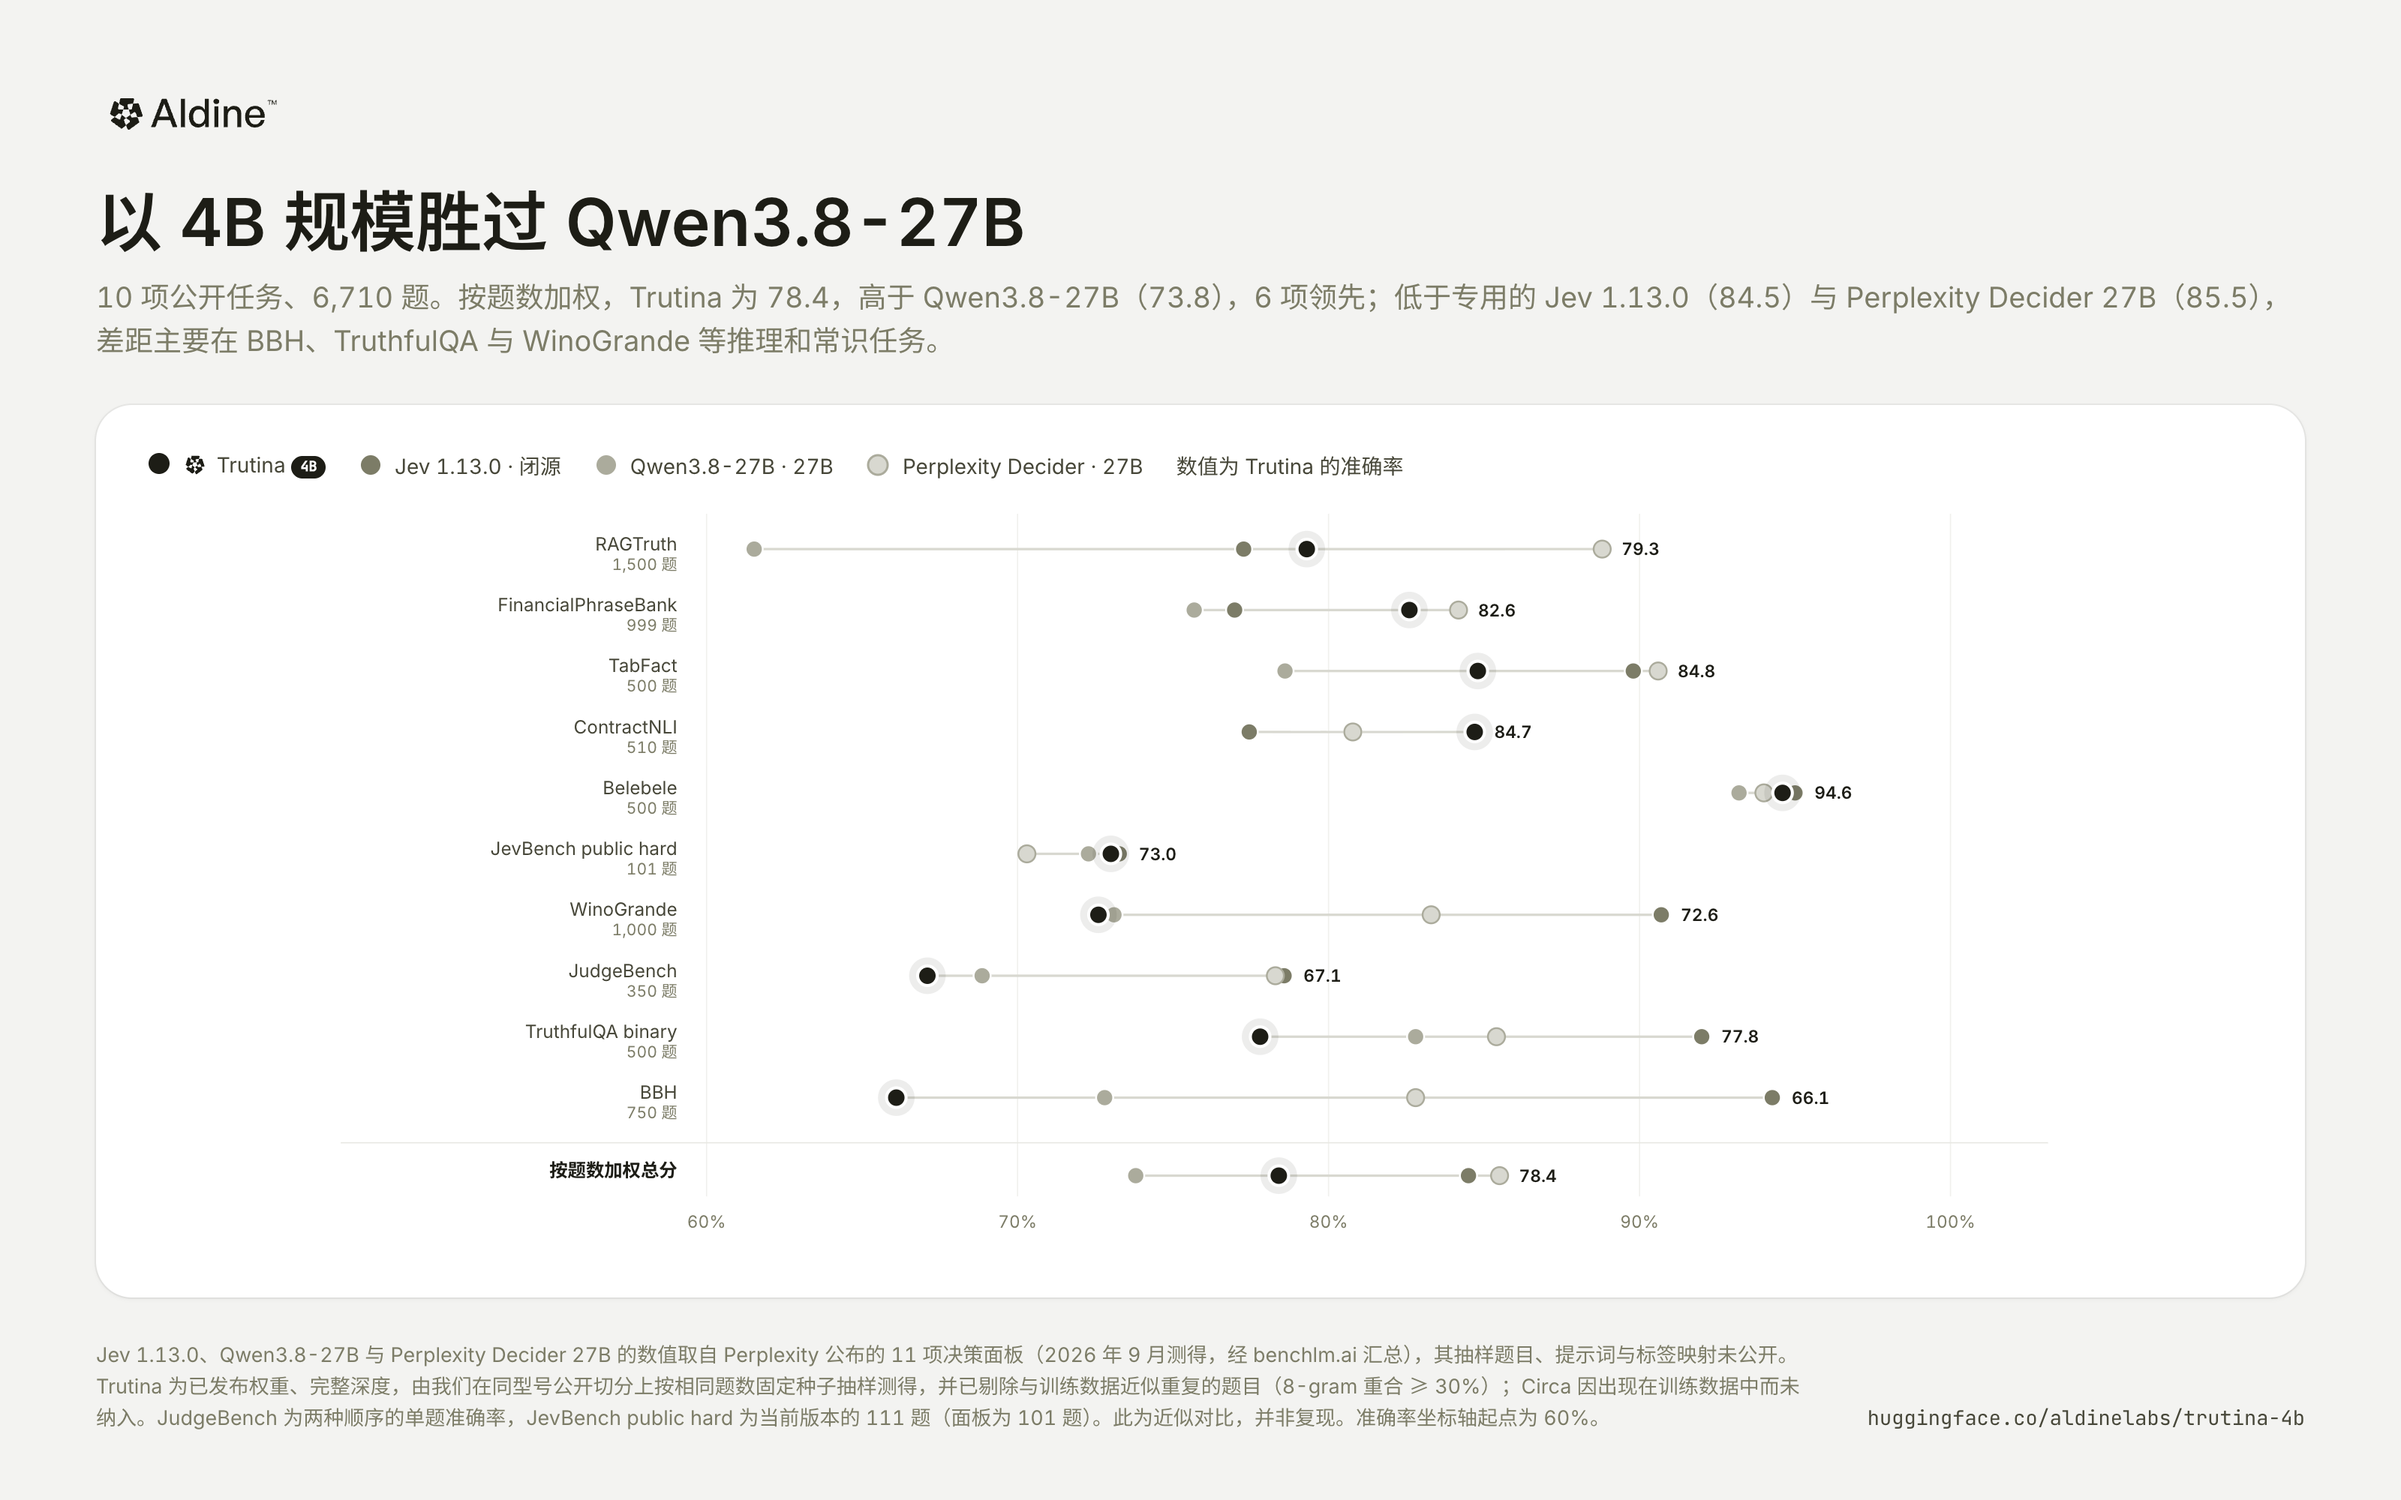
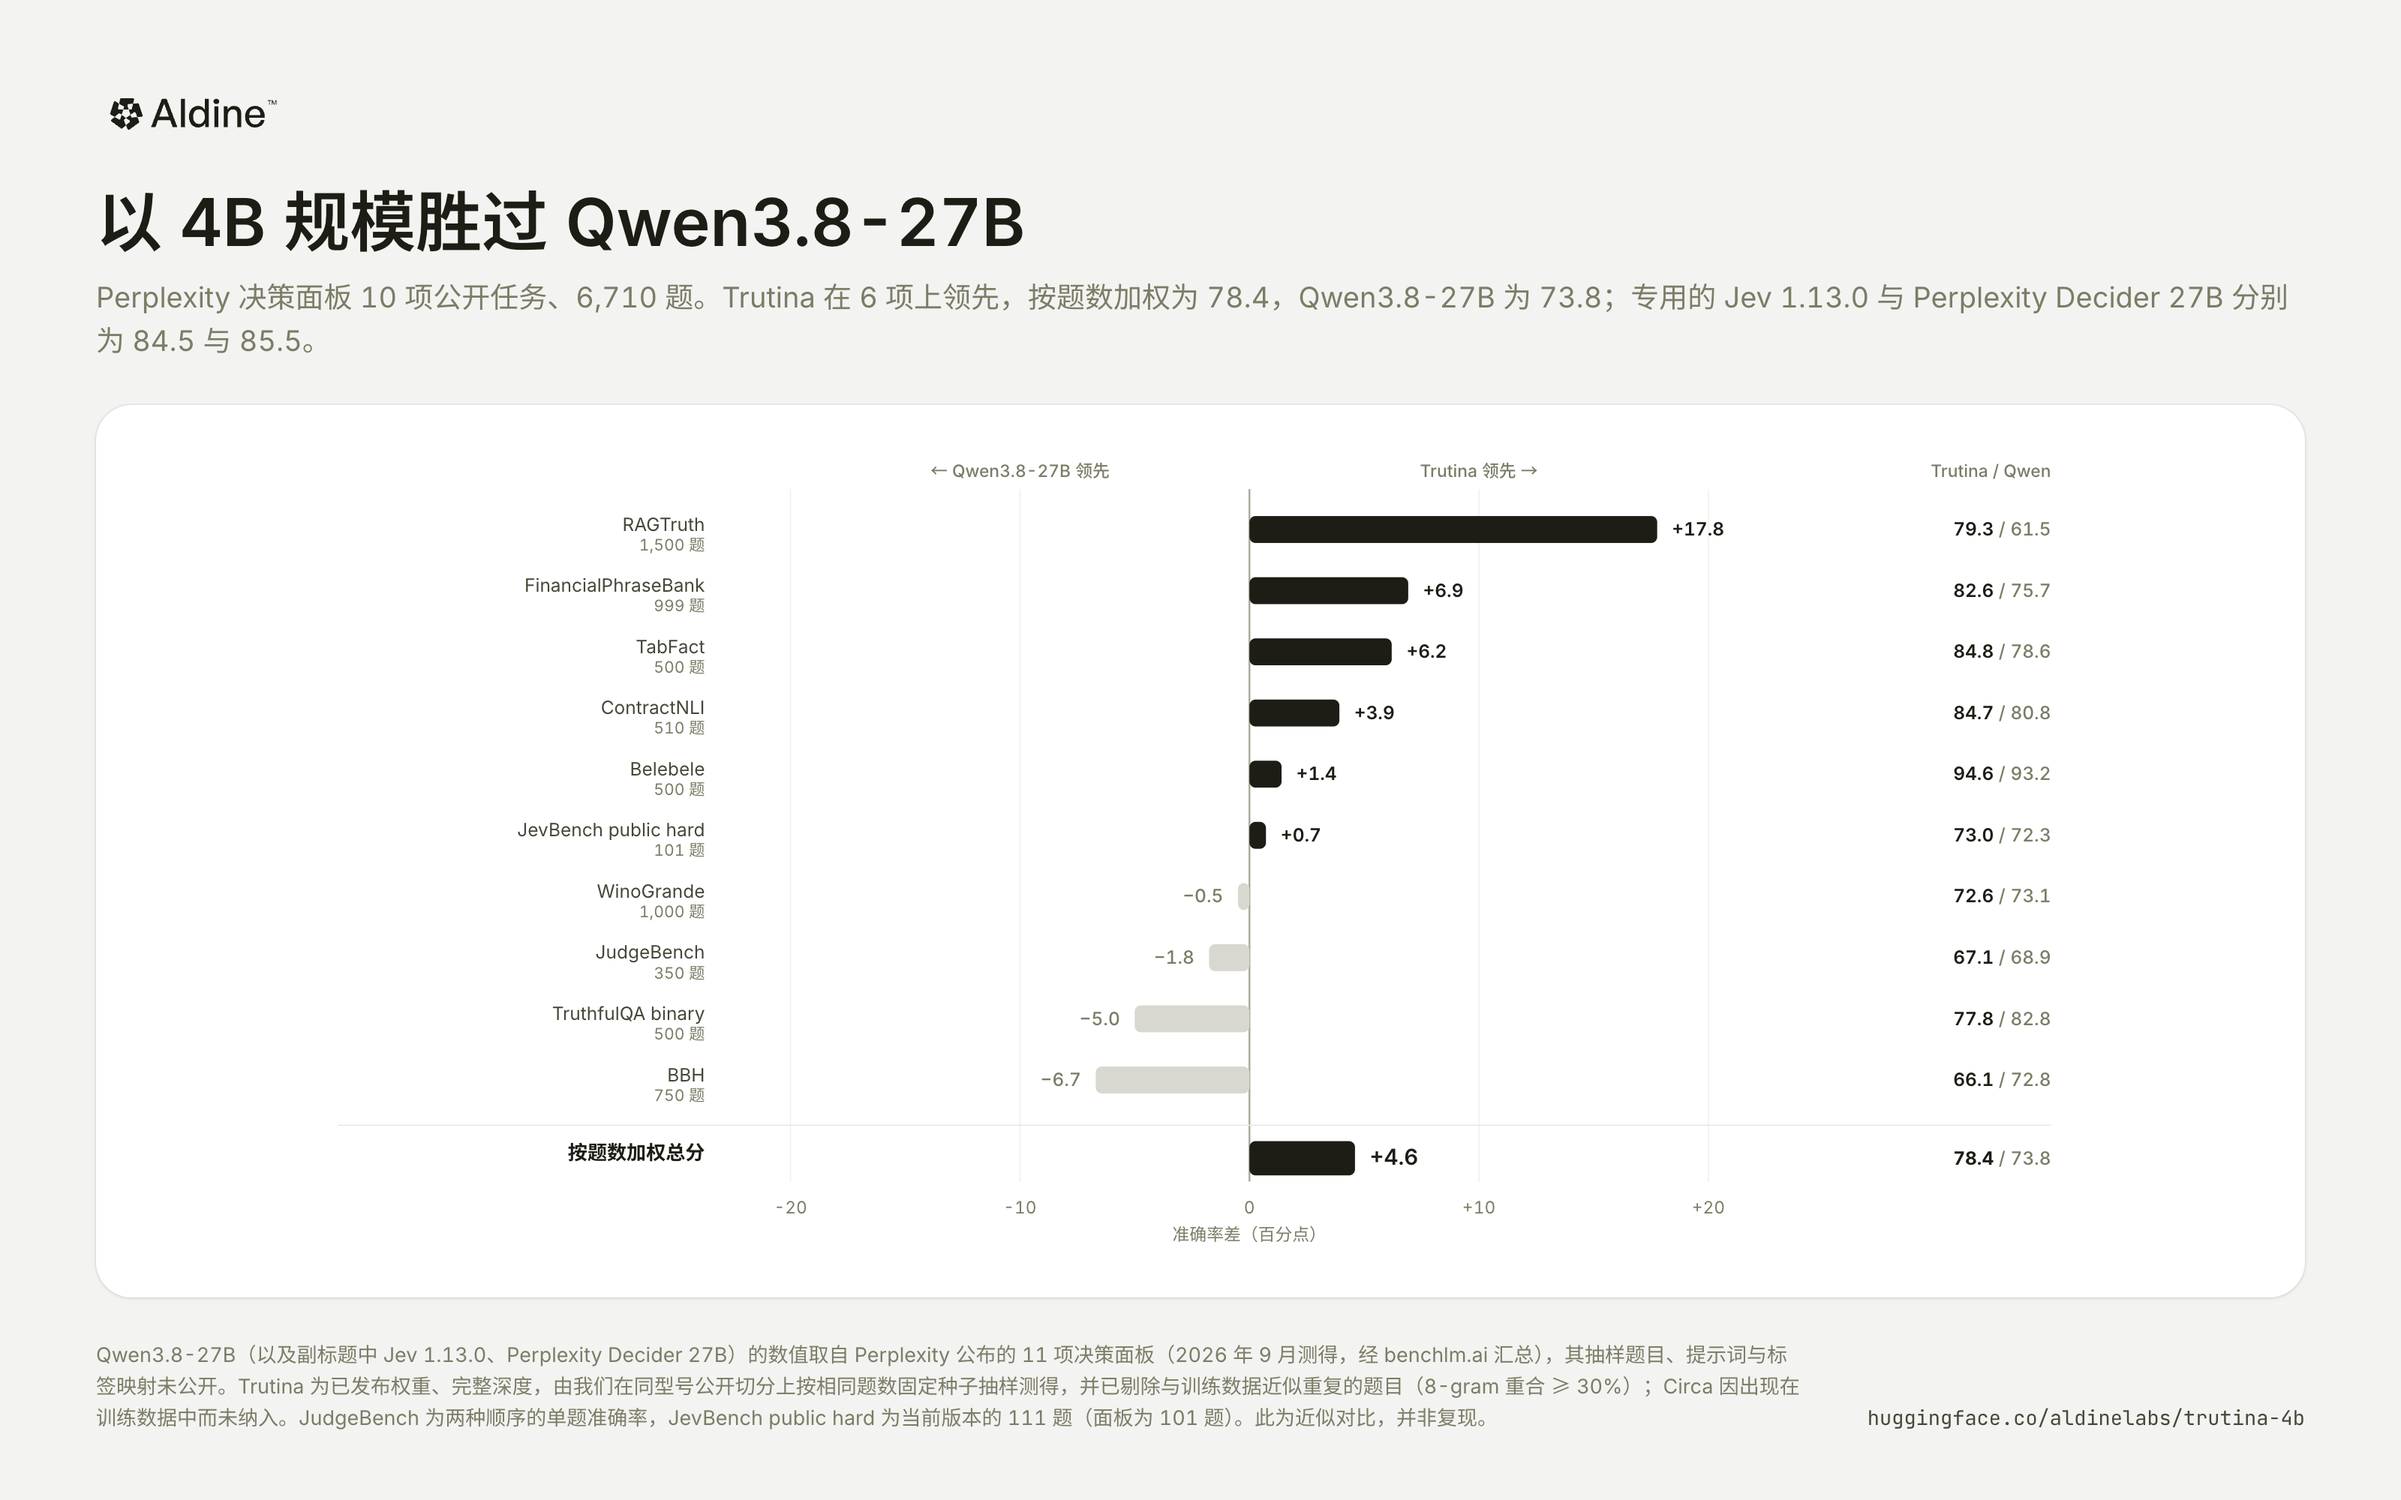
docs: panel chart shows Trutina's gap to Qwen3.8-27B per task as diverging bars; the specialist systems move to the subtitle

diff --git a/assets/charts/charts.html b/assets/charts/charts.html
@@ -250,38 +250,39 @@ function localllama() {
 
 /* ---------- Perplexity decision panel: 4B against Jev, Qwen3.8-27B and Perplexity Decider 27B ---------- */
 function panel() {
-  const P = D.panel, rows = [...P.tasks, { name: zh ? "按题数加权总分" : "Row-weighted overall", total: true, ...P.overall }];
-  const W = 1470, rowH = 50, top = 12, H = rows.length * rowH + top + 52, lx = 330;
-  const x = linScale(60, 100, lx, W - 120);
-  const S = [["jev", "Jev 1.13.0", zh ? "闭源" : "closed", "var(--muted)"], ["qwen", "Qwen3.8-27B", "27B", "var(--faint)"],
-             ["pplx", "Perplexity Decider", "27B", "var(--pale)"]];
+  // the claim is against Qwen3.8-27B, so the chart shows only that gap: one diverging bar per task
+  const P = D.panel, tasks = [...P.tasks].sort((a, b) => (b.trutina - b.qwen) - (a.trutina - a.qwen));
+  const rows = [...tasks, { name: zh ? "按题数加权总分" : "Row-weighted overall", total: true, ...P.overall }];
+  const W = 1470, rowH = 50, top = 40, H = rows.length * rowH + top + 66, lx = 330, rx = W - 250;
+  const lim = Math.ceil(Math.max(...rows.map(r => Math.abs(r.trutina - r.qwen))) / 10) * 10;
+  const x = linScale(-lim, lim, lx + 70, rx - 70), x0 = x(0);
   let g = "";
-  for (const t of [60, 70, 80, 90, 100]) g += `<line x1="${x(t)}" x2="${x(t)}" y1="${top - 4}" y2="${H - 46}" stroke="var(--grid)"/><text class="axis" x="${x(t)}" y="${H - 20}" text-anchor="middle">${t}%</text>`;
+  for (let t = -lim; t <= lim; t += 10) g += `<line x1="${x(t)}" x2="${x(t)}" y1="${top - 8}" y2="${H - 58}" stroke="${t ? "var(--grid)" : "var(--faint)"}" stroke-width="${t ? 1 : 1.5}"/><text class="axis" x="${x(t)}" y="${H - 32}" text-anchor="middle">${t > 0 ? "+" : ""}${t}</text>`;
+  g += `<text class="axis-title" x="${x(lim / 2)}" y="${top - 18}" text-anchor="middle">${zh ? "Trutina 领先 →" : "Trutina ahead →"}</text>`;
+  g += `<text class="axis-title" x="${x(-lim / 2)}" y="${top - 18}" text-anchor="middle">${zh ? "← Qwen3.8-27B 领先" : "← Qwen3.8-27B ahead"}</text>`;
+  g += `<text class="axis-title" x="${W - 40}" y="${top - 18}" text-anchor="end">${zh ? "Trutina / Qwen" : "Trutina / Qwen"}</text>`;
+  g += `<text class="axis" x="${x0}" y="${H - 10}" text-anchor="middle">${zh ? "准确率差（百分点）" : "accuracy gap (points)"}</text>`;
   rows.forEach((r, i) => {
-    const cy = top + i * rowH + rowH / 2 + (r.total ? 14 : 0);
+    const cy = top + i * rowH + rowH / 2 + (r.total ? 14 : 0), d = r.trutina - r.qwen, up = d >= 0;
     if (r.total) g += `<line x1="${lx - 300}" x2="${W - 40}" y1="${cy - rowH / 2 - 2}" y2="${cy - rowH / 2 - 2}" stroke="var(--border)"/>`;
-    g += `<text class="lbl" x="${lx - 24}" y="${cy + 1}" text-anchor="end" style="font-size:15px; ${r.total ? "font-weight:700; fill:var(--fg)" : ""}">${esc(r.name)}</text>`;
-    if (!r.total) g += `<text class="lbl-sub" x="${lx - 24}" y="${cy + 17}" text-anchor="end">${r.rows.toLocaleString()} ${zh ? "题" : "rows"}</text>`;
-    const vals = [r.trutina, r.jev, r.qwen, r.pplx];
-    g += `<line x1="${x(Math.min(...vals))}" x2="${x(Math.max(...vals))}" y1="${cy}" y2="${cy}" stroke="var(--pale)" stroke-width="2"/>`;
-    for (const [k, , , col] of S) g += `<circle cx="${x(r[k])}" cy="${cy}" r="7" fill="${col}" stroke="${col === "var(--pale)" ? "var(--faint)" : "var(--card)"}" stroke-width="1.5"/>`;
-    g += usDot(x(r.trutina), cy, 8);
-    g += `<text class="val" x="${x(Math.max(...vals)) + 16}" y="${cy + 5}" style="font-size:14px">${r.trutina.toFixed(1)}</text>`;
+    g += `<text class="lbl" x="${lx}" y="${cy + 1}" text-anchor="end" style="font-size:${r.total ? 16 : 15}px; ${r.total ? "font-weight:700; fill:var(--fg)" : ""}">${esc(r.name)}</text>`;
+    if (!r.total) g += `<text class="lbl-sub" x="${lx}" y="${cy + 17}" text-anchor="end">${r.rows.toLocaleString()} ${zh ? "题" : "rows"}</text>`;
+    const h = r.total ? 28 : 22, w = Math.abs(x(d) - x0);
+    g += `<rect x="${up ? x0 : x0 - w}" y="${cy - h / 2}" width="${Math.max(w, 3)}" height="${h}" rx="5" fill="${up ? "var(--fg)" : "var(--pale)"}"/>`;
+    g += `<text class="${up ? "val" : "val-muted"}" x="${up ? x0 + w + 12 : x0 - w - 12}" y="${cy + 5}" text-anchor="${up ? "start" : "end"}" style="font-size:${r.total ? 18 : 15}px">${up ? "+" : "−"}${Math.abs(d).toFixed(1)}</text>`;
+    g += `<text class="val-muted" x="${W - 40}" y="${cy + 5}" text-anchor="end" style="font-size:15px"><tspan style="fill:var(--fg); font-weight:${r.total ? 700 : 600}">${r.trutina.toFixed(1)}</tspan> / ${r.qwen.toFixed(1)}</text>`;
   });
-  const legend = `<div class="legend"><span><i><svg width="16" height="16"><circle cx="8" cy="8" r="7" fill="var(--fg)"/></svg></i>${MK}Trutina${PILL}</span>
-    ${S.map(([, n, sz, col]) => `<span><i><svg width="16" height="16"><circle cx="8" cy="8" r="6.5" fill="${col}" stroke="${col === "var(--pale)" ? "var(--faint)" : "none"}" stroke-width="1.5"/></svg></i>${n} · ${sz}</span>`).join("")}
-    <span>${zh ? "数值为 Trutina 的准确率" : "value: Trutina's accuracy"}</span></div>`;
   const o = P.overall, wins = P.tasks.filter(t => t.trutina > t.qwen).length;
   return frame(zh ? {
     title: "以 4B 规模胜过 Qwen3.8-27B",
-    sub: `10 项公开任务、${P.n.toLocaleString()} 题。按题数加权，Trutina 为 ${o.trutina}，高于 Qwen3.8-27B（${o.qwen}），${wins} 项领先；低于专用的 Jev 1.13.0（${o.jev}）与 Perplexity Decider 27B（${o.pplx}），差距主要在 BBH、TruthfulQA 与 WinoGrande 等推理和常识任务。`,
-    body: `<div class="card">${legend}${svgTag(W, H)}${g}</svg></div>`,
-    src: "Jev 1.13.0、Qwen3.8-27B 与 Perplexity Decider 27B 的数值取自 Perplexity 公布的 11 项决策面板（2026 年 9 月测得，经 benchlm.ai 汇总），其抽样题目、提示词与标签映射未公开。Trutina 为已发布权重、完整深度，由我们在同型号公开切分上按相同题数固定种子抽样测得，并已剔除与训练数据近似重复的题目（8-gram 重合 ≥ 30%）；Circa 因出现在训练数据中而未纳入。JudgeBench 为两种顺序的单题准确率，JevBench public hard 为当前版本的 111 题（面板为 101 题）。此为近似对比，并非复现。准确率坐标轴起点为 60%。",
+    sub: `Perplexity 决策面板 10 项公开任务、${P.n.toLocaleString()} 题。Trutina 在 ${wins} 项上领先，按题数加权为 ${o.trutina}，Qwen3.8-27B 为 ${o.qwen}；专用的 Jev 1.13.0 与 Perplexity Decider 27B 分别为 ${o.jev} 与 ${o.pplx}。`,
+    body: `<div class="card">${svgTag(W, H)}${g}</svg></div>`,
+    src: "Qwen3.8-27B（以及副标题中 Jev 1.13.0、Perplexity Decider 27B）的数值取自 Perplexity 公布的 11 项决策面板（2026 年 9 月测得，经 benchlm.ai 汇总），其抽样题目、提示词与标签映射未公开。Trutina 为已发布权重、完整深度，由我们在同型号公开切分上按相同题数固定种子抽样测得，并已剔除与训练数据近似重复的题目（8-gram 重合 ≥ 30%）；Circa 因出现在训练数据中而未纳入。JudgeBench 为两种顺序的单题准确率，JevBench public hard 为当前版本的 111 题（面板为 101 题）。此为近似对比，并非复现。",
   } : {
     title: "At 4B, ahead of Qwen3.8-27B",
-    sub: `10 public tasks, ${P.n.toLocaleString()} rows. Weighted by rows, Trutina scores ${o.trutina}, above Qwen3.8-27B (${o.qwen}) and ahead on ${wins} tasks; it trails the dedicated Jev 1.13.0 (${o.jev}) and Perplexity Decider 27B (${o.pplx}), mostly on reasoning and knowledge tasks such as BBH, TruthfulQA and WinoGrande.`,
-    body: `<div class="card">${legend}${svgTag(W, H)}${g}</svg></div>`,
-    src: "Jev 1.13.0, Qwen3.8-27B and Perplexity Decider 27B: Perplexity's published 11-task decision panel (measured September 2026, collected by benchlm.ai); its sampled items, prompts and label mappings are unpublished. Trutina: released weights at full depth, measured by us on the same public splits with the same row counts (fixed seed), near-duplicates of our training data removed (≥ 30% shared 8-grams); Circa is left out because it was in our training data. JudgeBench is per-request accuracy over both orders; JevBench public hard is the current 111 tasks (the panel used 101). An approximate comparison, not a replication. The accuracy axis starts at 60%.",
+    sub: `Perplexity's decision panel, 10 public tasks, ${P.n.toLocaleString()} rows. Trutina leads on ${wins} tasks and scores ${o.trutina} weighted by rows against Qwen3.8-27B's ${o.qwen}; the dedicated Jev 1.13.0 and Perplexity Decider 27B score ${o.jev} and ${o.pplx}.`,
+    body: `<div class="card">${svgTag(W, H)}${g}</svg></div>`,
+    src: "Qwen3.8-27B (and, in the subtitle, Jev 1.13.0 and Perplexity Decider 27B): Perplexity's published 11-task decision panel (measured September 2026, collected by benchlm.ai); its sampled items, prompts and label mappings are unpublished. Trutina: released weights at full depth, measured by us on the same public splits with the same row counts (fixed seed), near-duplicates of our training data removed (≥ 30% shared 8-grams); Circa is left out because it was in our training data. JudgeBench is per-request accuracy over both orders; JevBench public hard is the current 111 tasks (the panel used 101). An approximate comparison, not a replication.",
   });
 }
 
